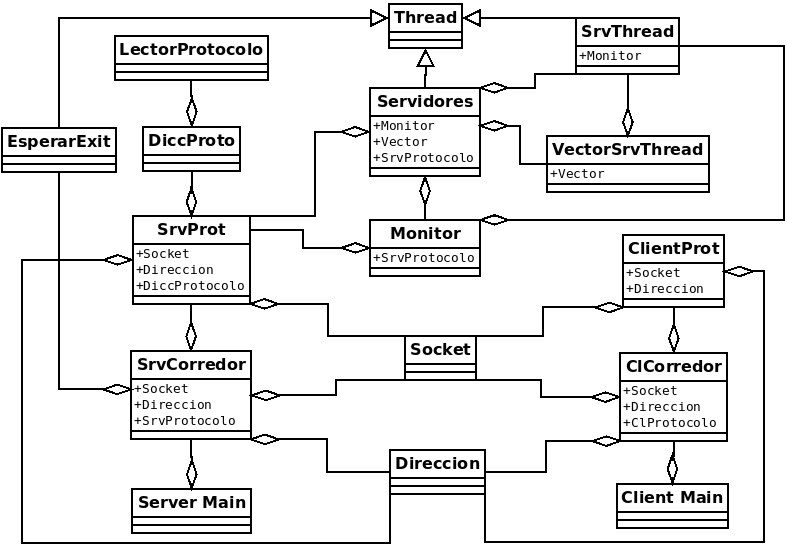
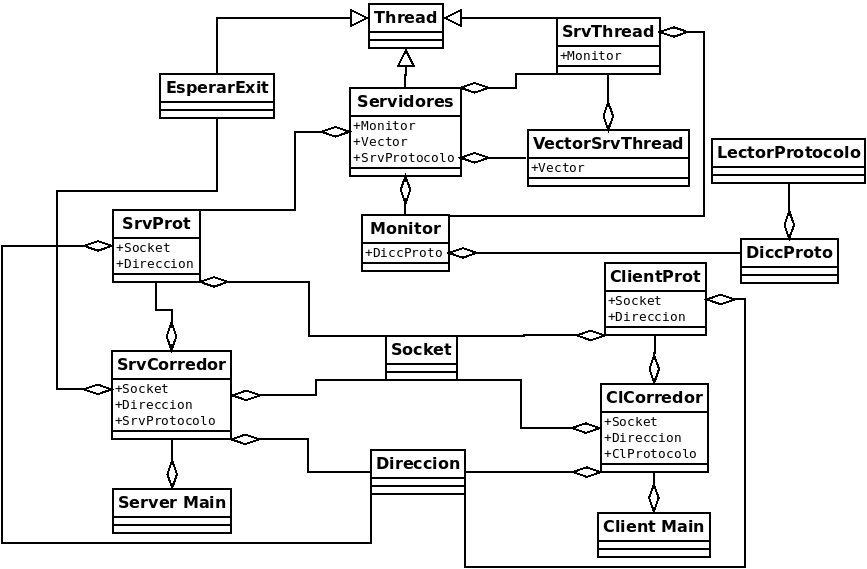
Agregue cambios hechos al informe

Changed region(s): [[0.0, 0.0, 1.0, 0.9982]]

diff --git a/README.md b/README.md
@@ -29,7 +29,7 @@ Esta clase va a tomar el host y el puerto pasado por parametro, va a crear la cl
 
 ### Client Corredor:
 
-Esta clase va a recibir un host y un puerto con los que creara una clase **Direccion** y usara esta para crear una clase **Socket** y luego va a utilizar ese **Socket** y esa **Direccion** para crear un **Cliente Protocolo**, el cual luego se llamara como funcion. En caso de que atrape una excepcion del tipo **std::exception** se mostrara por pantalla el mensaje de error y se retornara un 1, en caso de que atrape otro tipo de error se informara que hubo un error desconocido y tambien se retornara 1.
+Esta clase va a recibir un host y un puerto los que se van a usar para crear un **Cliente Protocolo**, el cual luego se llamara como funcion. En caso de que atrape una excepcion del tipo **std::exception** se mostrara por pantalla el mensaje de error y se retornara un 1, en caso de que atrape otro tipo de error se informara que hubo un error desconocido y tambien se retornara 1.
 
 ### Client Protocolo:
 
@@ -43,7 +43,7 @@ Esta clase va a tomar el puerto y el nombre del archivo pasados por parametro, v
 
 ### Server Corredor:
 
-Esta clase va a crear una **Direccion**, luego un **Socket** con esa **Direccion**, luego un **Server Protocolo** con la **Direccion**, el **Socket** y el nombre del archivo pasado por parametro, va a llamar a la funcion para inicializar ese **Server Protocolo** y luego va a crear dos threads: **EsperarExit** y **Servidores**, a este ultimo le pasara el **Server Protocolo** como parametro, luego se hara un ***start()*** de ambos threads, se hara un ***join()*** de EsperarExit y cuando este finalice se hara un ***shutdown()*** de el **Socket** y luego se procedera a hacer un ***join()*** de **Servidores**, luego se eliminaran **EsperarExit** y **Servidores** para liberar memoria, al finalizar se retornara 0, en caso de algun error se retornara el mensaje de error correspondiente y se retornara un 1;
+Esta clase va a crear un **Server Protocolo** con el puerto y la cantidad de listen y va a crear un **Monitor** pasandole el nombre del archivo que va a usar de index y luego va a crear dos threads: **EsperarExit** y **Servidores**, a este ultimo le pasara el **Server Protocolo** y el **Monitor** como parametro, luego se hara un ***start()*** de ambos threads, se hara un ***join()*** de EsperarExit y cuando este finalice se hara un ***shutdown()*** de el **Socket** y luego se procedera a hacer un ***join()*** de **Servidores**, luego se eliminaran **EsperarExit** y **Servidores** para liberar memoria, al finalizar se retornara 0, en caso de algun error se retornara el mensaje de error correspondiente y se retornara un 1;
 
 ### Lector Protocolo:
 
@@ -52,7 +52,7 @@ El **Lector Protocolo** lo que va a hacer al crearse es recibir un string que va
 ### Diccionario Protocolo:
 
 Esta clase al crearse va a pedir el nombre de un archivo el cual utilizara como index (lo guardara como el body del "/"),
-luego al llamarlo como funcion y pasandole un protocolo HTTP utilizara el **Lector Protocolo** para poder sacar solo la informacion util y vera que hacer en caso de que el metodo sea GET buscara en el diccionario el recurso al que se le hace GET y si lo encuentra devolvera el mensaje correspondiente y el body, en caso de POST tambien devolvera el mensaje correspondiente, en caso de que se llame a otro metodo tambien se devolvera un mensaje correspondiente al llamado de un metodo que no esta permitido.
+luego al llamarlo como funcion y pasandole un protocolo HTTP utilizara el **Lector Protocolo** para poder sacar solo la informacion util y vera que hacer en caso de que el metodo sea GET esperara 10 milisegundos y luego buscara en el diccionario el recurso al que se le hace GET y si lo encuentra devolvera el mensaje correspondiente y el body, en caso de POST tambien devolvera el mensaje correspondiente, en caso de que se llame a otro metodo tambien se devolvera un mensaje correspondiente al llamado de un metodo que no esta permitido.
 
 ### Server Protocolo:
 
@@ -68,7 +68,7 @@ Esta es una clase que hereda de **Thread** y la funcion que va a tener es crear 
 
 ### Monitor:
 
-La clase monitor va a recibir un **Server Protocolo** y su funcion va a hacer es ejecutar las funciones ***enviar()*** y ***recibir()*** utilizando un mutex para evitar alguna race condition.
+La clase monitor va a recibir un **Diccionario Protocolo** y su funcion va a hacer ejecutar la funcion principal de **Diccionario Protocolo**, que es llamarse a si misma, con un protocolo y devolver la respuesta, antes de llamar a esa funcion se le hara un mutex para evitar race conditions.
 
 ### Servidores Threads:
 
